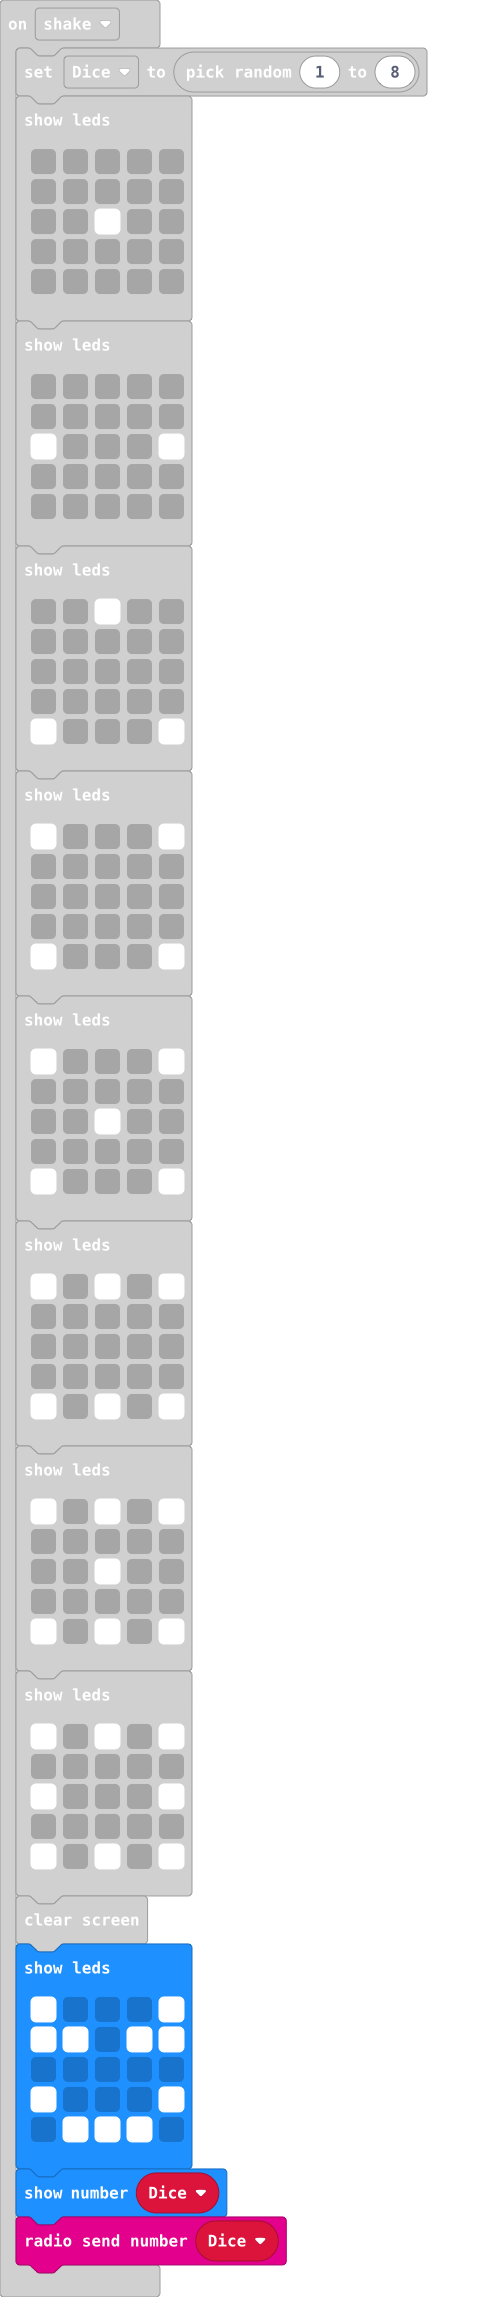
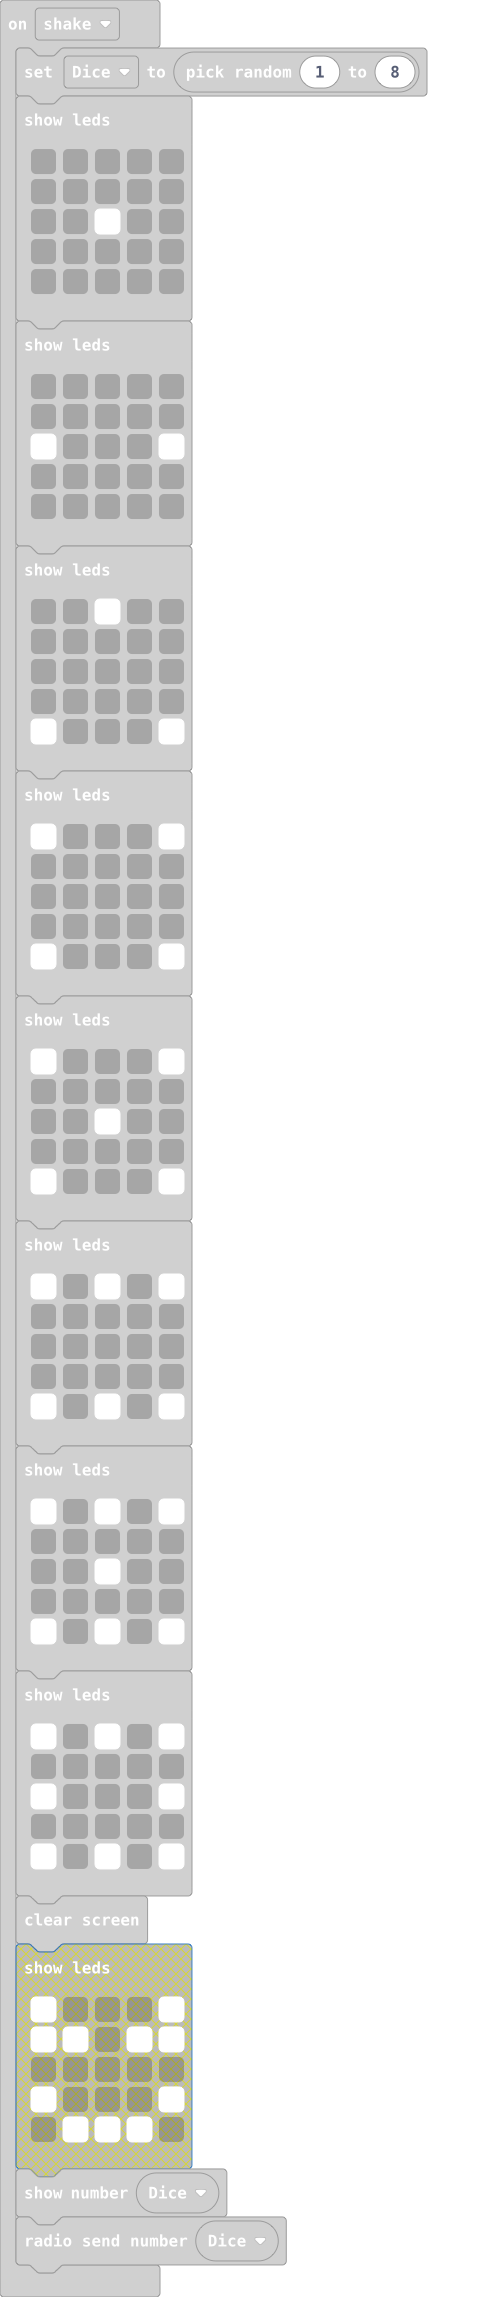
Update main.blocks, main.ts

Changed region(s): [[0.0292, 0.8346, 0.6138, 0.9891]]

diff --git a/main.ts b/main.ts
@@ -71,13 +71,6 @@ input.onGesture(Gesture.Shake, function () {
         # . # . #
         `)
     basic.clearScreen()
-    basic.showLeds(`
-        # . . . #
-        # # . # #
-        . . . . .
-        # . . . #
-        . # # # .
-        `)
     basic.showNumber(Dice)
     radio.sendNumber(Dice)
 })
